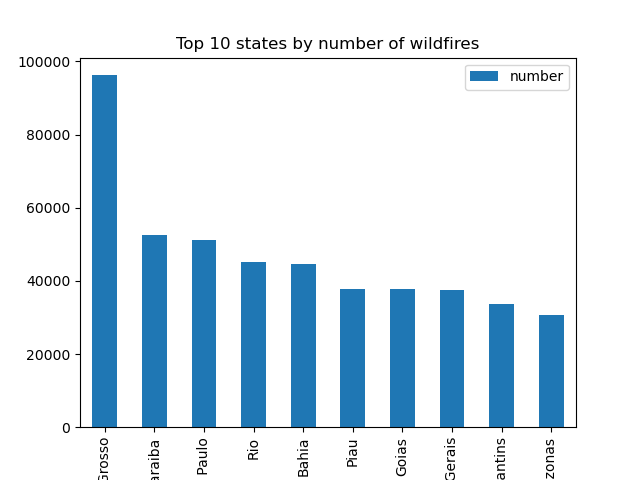
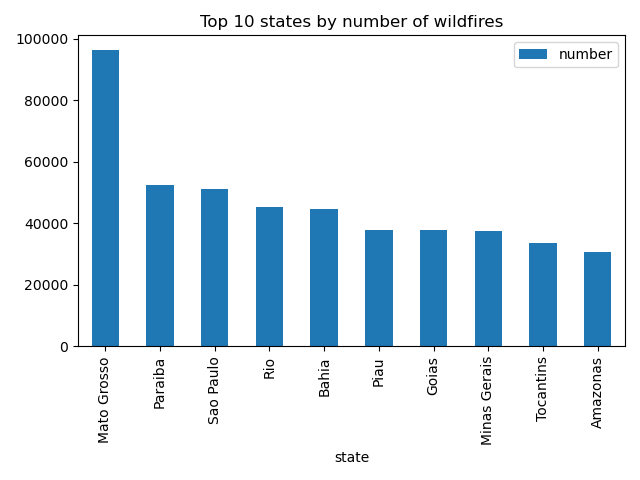
reorder functions so tight layout is set before saving images

diff --git a/brazilian_wildfires_descriptive_analysis/wildfires.py b/brazilian_wildfires_descriptive_analysis/wildfires.py
@@ -55,8 +55,8 @@ print(years.info())
 #years.plot.line(x="year", y="number")
 sns.lmplot(x="year", y="number", data=years, fit_reg=True)
 plt.title("Wildfire distribution by year")
-plt.savefig("output/wildfires_distribution_by_year.png")
 plt.tight_layout()
+plt.savefig("output/wildfires_distribution_by_year.png")
 
 plt.figure()
 months = df.groupby(["month"]).sum().reset_index()
@@ -67,6 +67,7 @@ sns.boxplot(x="month", y="number",
 
 
 plt.title("Wildfire distribution by month")
+plt.tight_layout()
 plt.savefig("output/wildfires_distribution_by_month.png")
 
 #Top 10 states
@@ -74,8 +75,8 @@ plt.savefig("output/wildfires_distribution_by_month.png")
 top_10_states = df.groupby("state").sum().reset_index().sort_values(by="number", ascending=False).head(10)
 top_10_states.plot.bar(x="state", y="number")
 plt.title("Top 10 states by number of wildfires")
+plt.tight_layout()
 plt.savefig("output/top_10_states.png")
-plt.gcf().subplots_adjust(bottom=0.25)
 
 
 #Line plots for wildfires per year for each state
@@ -89,6 +90,7 @@ print(years_state.info())
 years_state = years_state.pivot(index="year", columns="state", values="number")
 years_state.plot()
 plt.title("Wildfires main states")
+plt.tight_layout()
 plt.savefig("output/wildfires_main_states.png")
 
 plt.show()
